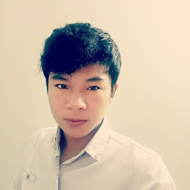
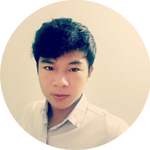
Add new a avata image and design header

diff --git a/index.html b/index.html
@@ -3,17 +3,23 @@
 <head>
 	<link rel="stylesheet" type="text/css" href="css/bootstrap.min.css">
 	<link rel="stylesheet" type="text/css" href="css/bootstrap-theme.min.css">
+	<link rel="stylesheet" type="text/css" href="css/css-custom-index.css">
 	<script type="text/javascript" src="js/jquery.min.js"></script>
 	<script type="text/javascript" src="js/bootstrap.min.js"></script>
 	<meta charset="utf-8">
-	<title></title>
+	<title>CV Martin Do</title>
 </head>
 <body>
 	<div class="container">
 		<div class="header">
-			<div class="col-lg-5 text-left-header"><h2>Martin</h2></div>
-			<div class="col-lg-2"><span class="image-header">image</span></div>
-			<div class="col-lg-5 text-right-header"><h2>Do</h2></div>
+			<div class="row p-t-15">
+				<div class="col-lg-5 text-left-header"><h2>Martin</h2></div>
+				<div class="col-lg-2"><span class="image-header">image</span></div>
+				<div class="col-lg-5 text-right-header"><h2>Do</h2></div>
+			</div>
+			<div class="row">
+				<div class="col-lg-12"><p class="text-center">WEB DEVELOPER/FULL STACK</p></div>
+			</div>
 		</div>
 		<div class="row">
 			<div class="col-lg-6"></div>

diff --git a/css/css-custom-index.css b/css/css-custom-index.css
@@ -1,0 +1,32 @@
+/*Header*/
+.header{
+	    background: #18181A;
+}
+.col-lg-2 > span{
+	text-indent: 100%;
+    overflow: hidden;
+    background-image: url(../img/martinDo.png);
+    background-repeat: no-repeat;
+    height: 150px;
+    width: 158px;
+    display: block;
+    margin: 0 auto;
+    float:right;
+}
+.col-lg-5.text-left-header{
+	 padding-right: 0px;
+     padding-left: 0px; 
+}	
+.col-lg-5.text-right-header,.col-lg-5.text-left-header h2{
+	float:right;
+	height: 130px;
+	padding: 45px 0px 0px 0px;
+	color: #c5174a;
+}
+p.text-center{
+	color: #f7f7f7;
+}
+/*Padding, martin*/
+.p-t-15{
+	padding-top: 15px;
+}
